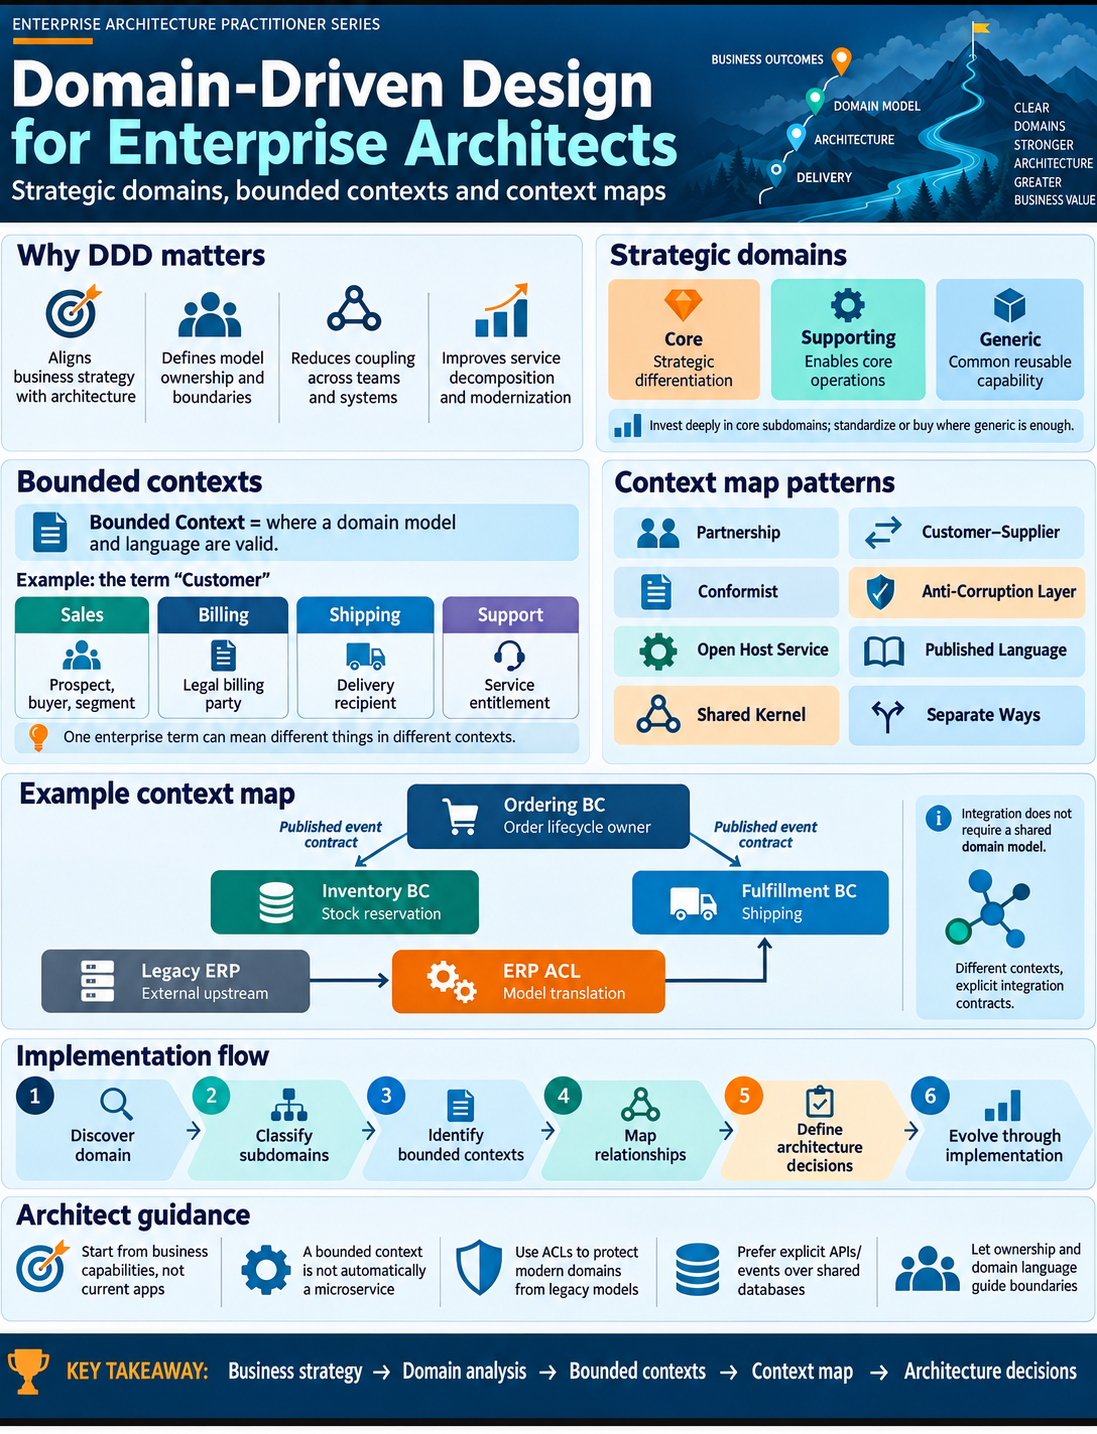
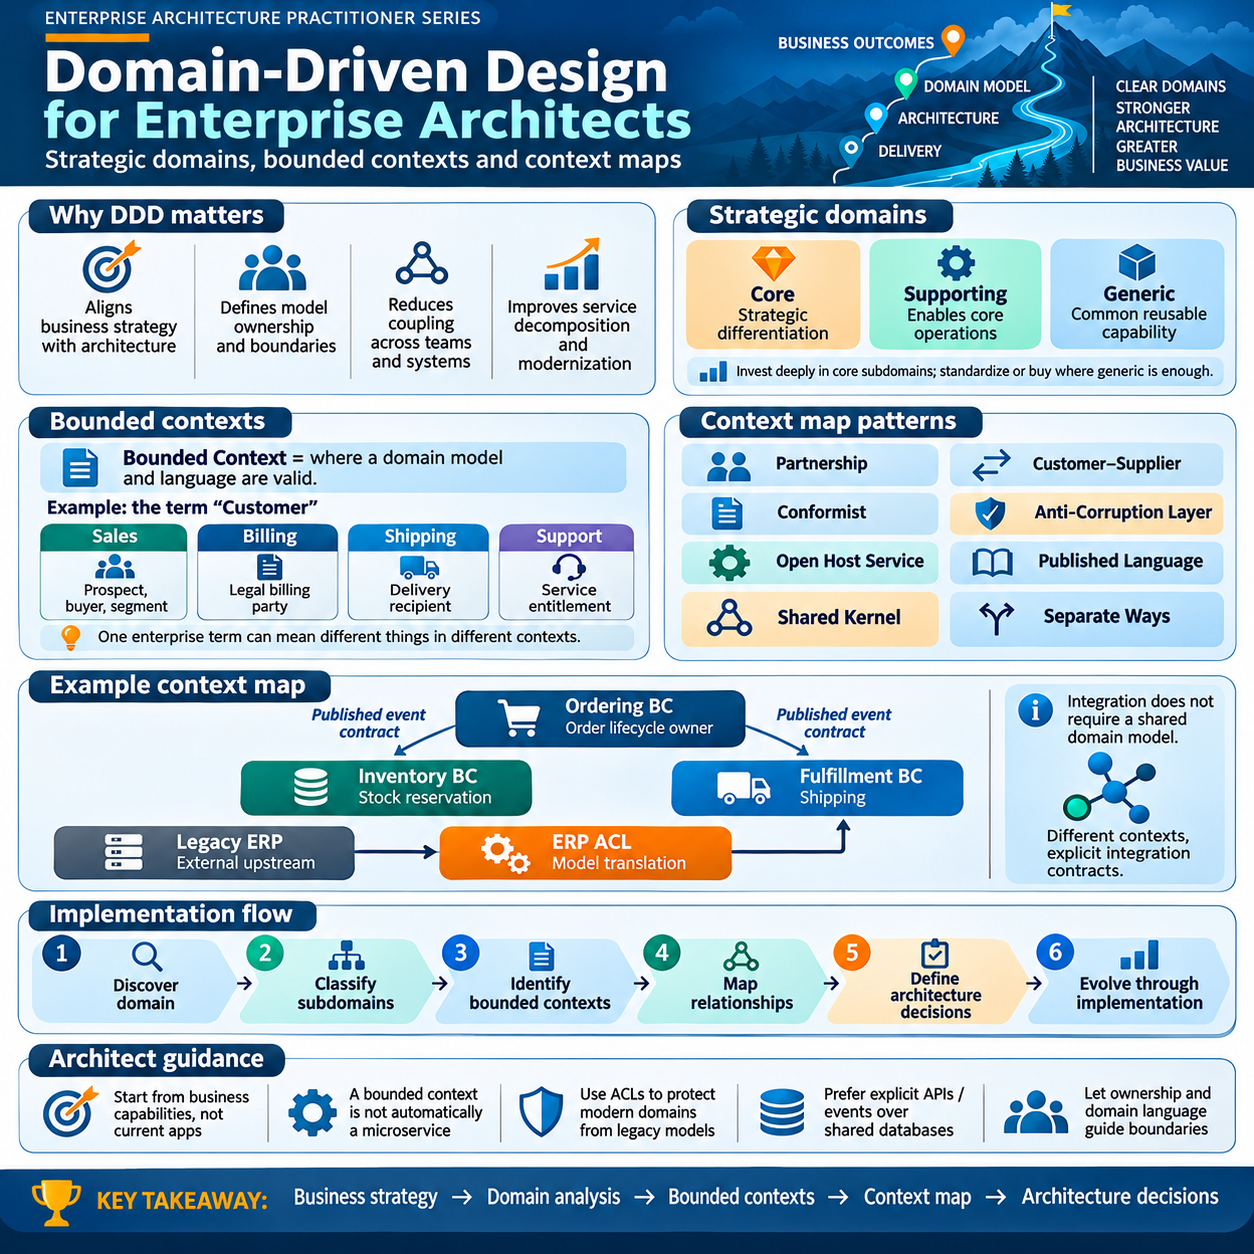
Replace DDD illustration on patterns page

diff --git a/autres-patterns.md b/autres-patterns.md
@@ -47,7 +47,7 @@ Un bounded context n’est pas automatiquement égal à un microservice. La fron
 
 Ce schéma résume les concepts clés du Domain-Driven Design : domaines stratégiques, contextes délimités, relations entre contextes et étapes de mise en œuvre dans une architecture d’entreprise.
 
-<figure class="resource-figure ddd-figure"><img src="/assets/images/resources/ddd-domain-driven-design.png" alt="Schéma illustrant le Domain-Driven Design pour architectes d’entreprise : domaines stratégiques, contextes délimités, carte des contextes et étapes d’implémentation." loading="lazy"><figcaption>Domain-Driven Design : domaines stratégiques, bounded contexts, carte des contextes et démarche d’implémentation.</figcaption></figure>
+<figure class="resource-figure ddd-figure"><img src="/assets/images/resources/ddd-domain-driven-design.png" alt="Domain-Driven Design pour architectes d’entreprise : domaines stratégiques, bounded contexts, patterns de carte de contexte et démarche de mise en œuvre." loading="lazy"><figcaption>Domain-Driven Design pour architectes d’entreprise : domaines stratégiques, bounded contexts et cartes de contexte.</figcaption></figure>
 
 # 3. Architecture hexagonale (Ports & Adapters)
 
